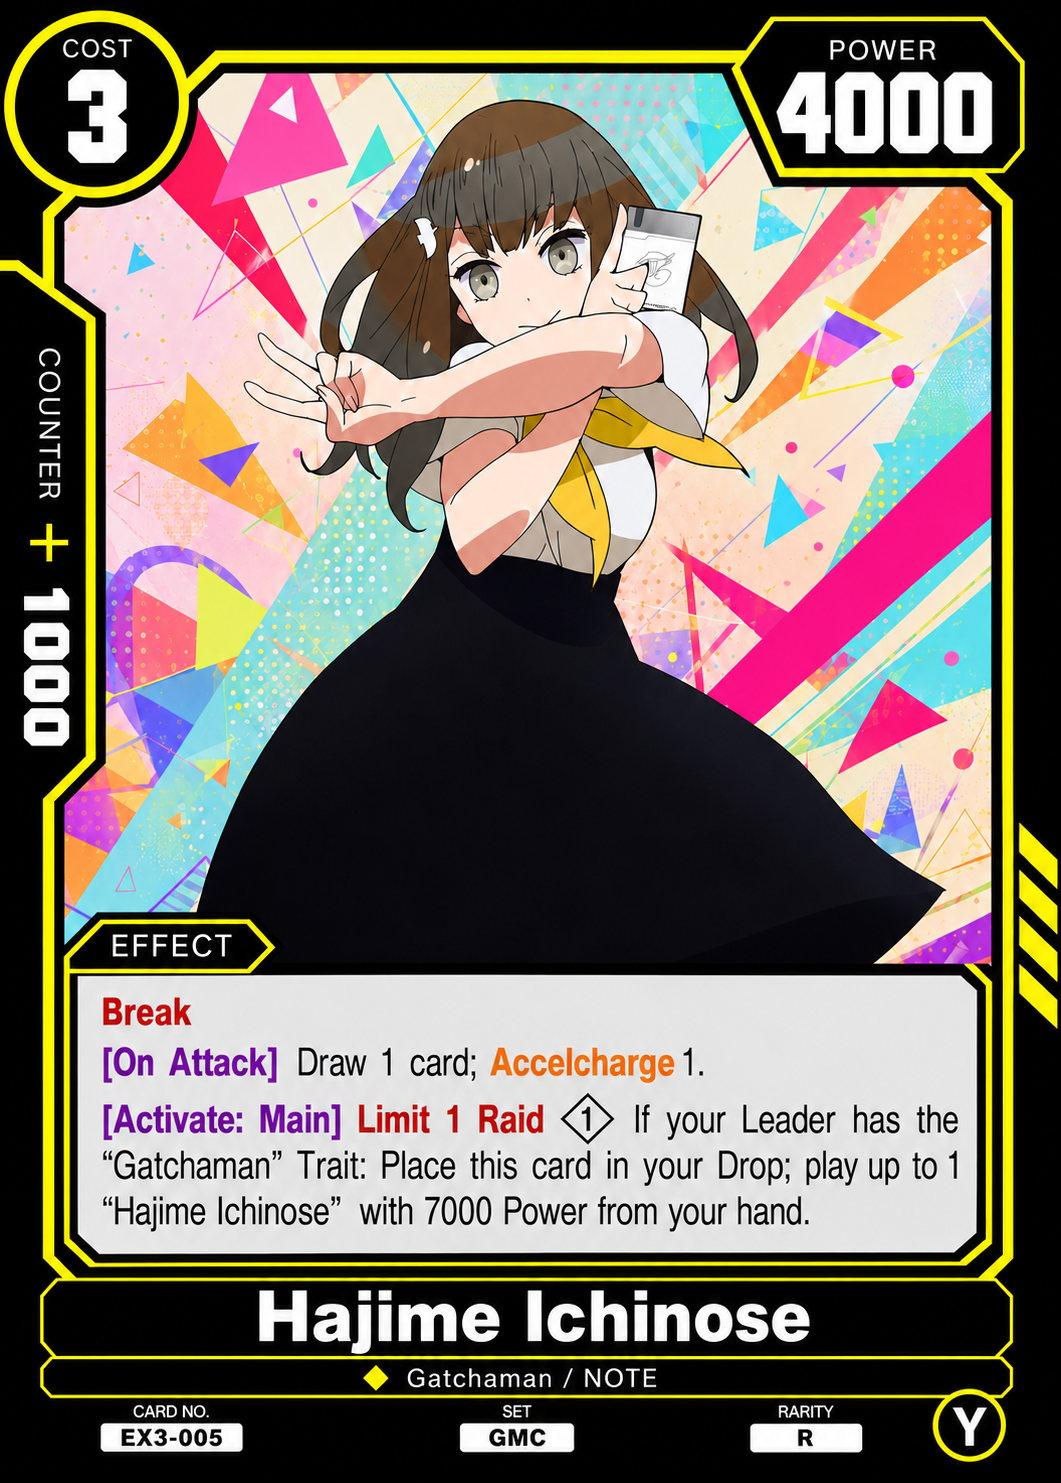
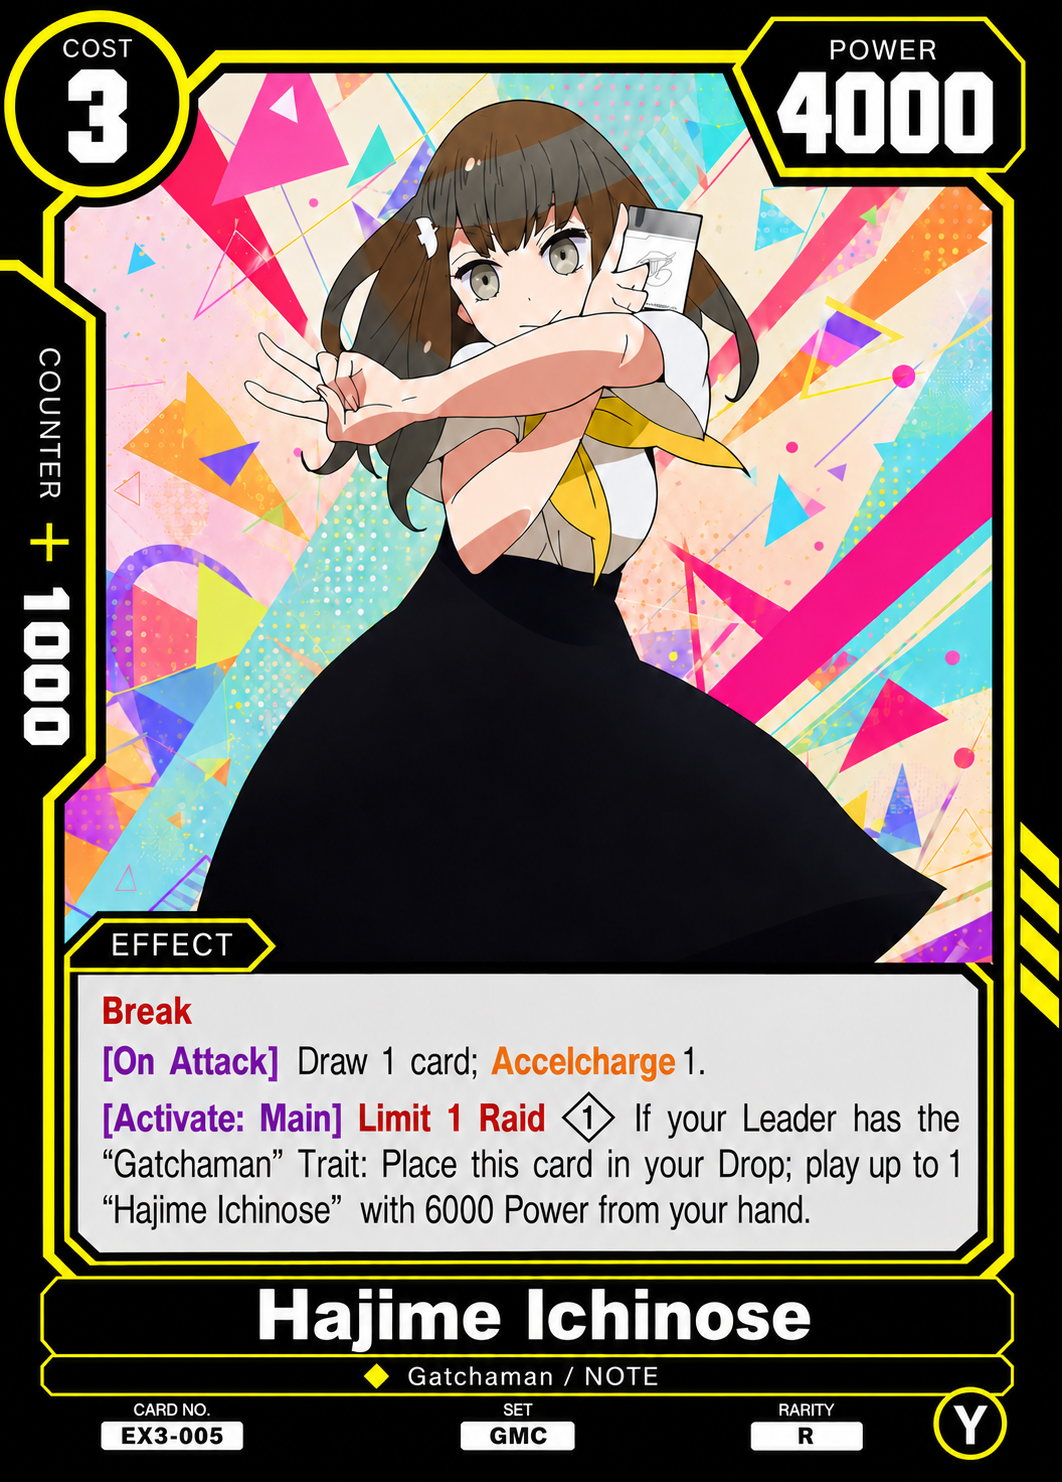
Correct EX3-005 Hajime promotion target to 6000 Power

diff --git a/card-text-data.js b/card-text-data.js
@@ -15153,8 +15153,8 @@ window.SJTCG_CARD_TEXT = {
     "set": "GMC",
     "rarity": "R",
     "bottom_right_circle": "Y",
-    "effect": "Break\n[On Attack] Draw 1 card; Accelcharge 1.\n[Activate: Main] Limit 1 Raid {1} If your Leader has the \"Gatchaman\" Trait: Place this card in your Drop; play up to 1 \"Hajime Ichinose\" with 7000 Power from your hand.",
-    "effect_html": "<span class=\"kw kw-red\" title=\"Break\">Break</span><br><span class=\"kw kw-purple\" title=\"Timing window\">[On Attack]</span> Draw 1 card; <span class=\"kw kw-orange\" title=\"Accelcharge\">Accelcharge</span> 1.<br><span class=\"kw kw-purple\" title=\"Timing window\">[Activate: Main]</span> <span class=\"kw kw-red\" title=\"Limit X\">Limit 1</span> <span class=\"kw kw-red\" title=\"Raid\">Raid</span> {1} If your Leader has the &quot;Gatchaman&quot; Trait: Place this card in your Drop; play up to 1 &quot;Hajime Ichinose&quot; with 7000 Power from your hand.",
+    "effect": "Break\n[On Attack] Draw 1 card; Accelcharge 1.\n[Activate: Main] Limit 1 Raid {1} If your Leader has the \"Gatchaman\" Trait: Place this card in your Drop; play up to 1 \"Hajime Ichinose\" with 6000 Power from your hand.",
+    "effect_html": "<span class=\"kw kw-red\" title=\"Break\">Break</span><br><span class=\"kw kw-purple\" title=\"Timing window\">[On Attack]</span> Draw 1 card; <span class=\"kw kw-orange\" title=\"Accelcharge\">Accelcharge</span> 1.<br><span class=\"kw kw-purple\" title=\"Timing window\">[Activate: Main]</span> <span class=\"kw kw-red\" title=\"Limit X\">Limit 1</span> <span class=\"kw kw-red\" title=\"Raid\">Raid</span> {1} If your Leader has the &quot;Gatchaman&quot; Trait: Place this card in your Drop; play up to 1 &quot;Hajime Ichinose&quot; with 6000 Power from your hand.",
     "notes": "",
     "transcription_status": "verified",
     "release": "EX3",

diff --git a/index.html b/index.html
@@ -214,8 +214,8 @@
     </section>
   </div>
 
-  <script src="cards-data.js?v=fb89eeb9456a"></script>
-  <script src="card-text-data.js?v=bcd0bbea1238"></script>
+  <script src="cards-data.js?v=3b2d0240abef"></script>
+  <script src="card-text-data.js?v=fa8af6ab2b22"></script>
   <script src="app.js?v=20261009-reprint-search-2"></script>
 </body>
 </html>

diff --git a/cards-data.js b/cards-data.js
@@ -8930,7 +8930,7 @@ window.SJTCG_CARD_DATA = [
     "cardType": "Main Deck",
     "deckLimit": 4,
     "orientation": "Portrait",
-    "imageVersion": "e48a15b7f0ca"
+    "imageVersion": "73f2b2f47d57"
   },
   {
     "number": "EX3-006",
